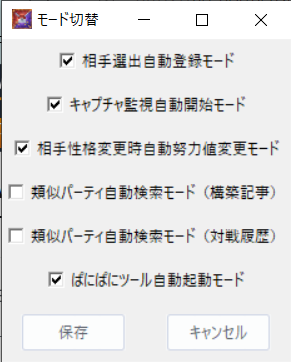
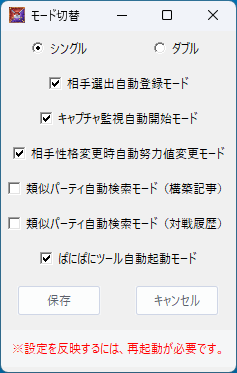
README更新

diff --git a/README.md b/README.md
@@ -64,7 +64,7 @@
   - それ以外の場合は、種族値に応じた初期値が反映される
   - 例）Aが一番高く、H＞Sの場合はいじっぱりAS252、Cが一番高く、H＜Sの場合はおくびょうCS252など
 - 努力値・ランクはカーソルか手動入力で設定
-  - 努力値は0と252を切り替え
+  - 努力値は右クリックで0と252を切り替え
   - ランクは1ずつ増減
   - それぞれのボタンを押すと一括削除可能
 - 個体値は項目のボタンを押すことで0－31を入れ替えられます
@@ -247,6 +247,12 @@
 
 ![モード切り替え](/image/readme/setting_mode.png)
 
+- シングル/ダブル
+  - ダブルモードでは以下のモードが追加される
+  ![ダブルモード](/image/readme/double_mode.png)
+  - 範囲技の全体攻撃適応の有無
+  - 四災の特性を反映
+  - てだすけ/フレンドガードの効果を反映
 - 相手選出自動登録モード
   - 相手のパーティからダメージ計算を行うポケモンを選択した際に自動で選出にも登録する
 - キャプチャ監視自動開始モード
